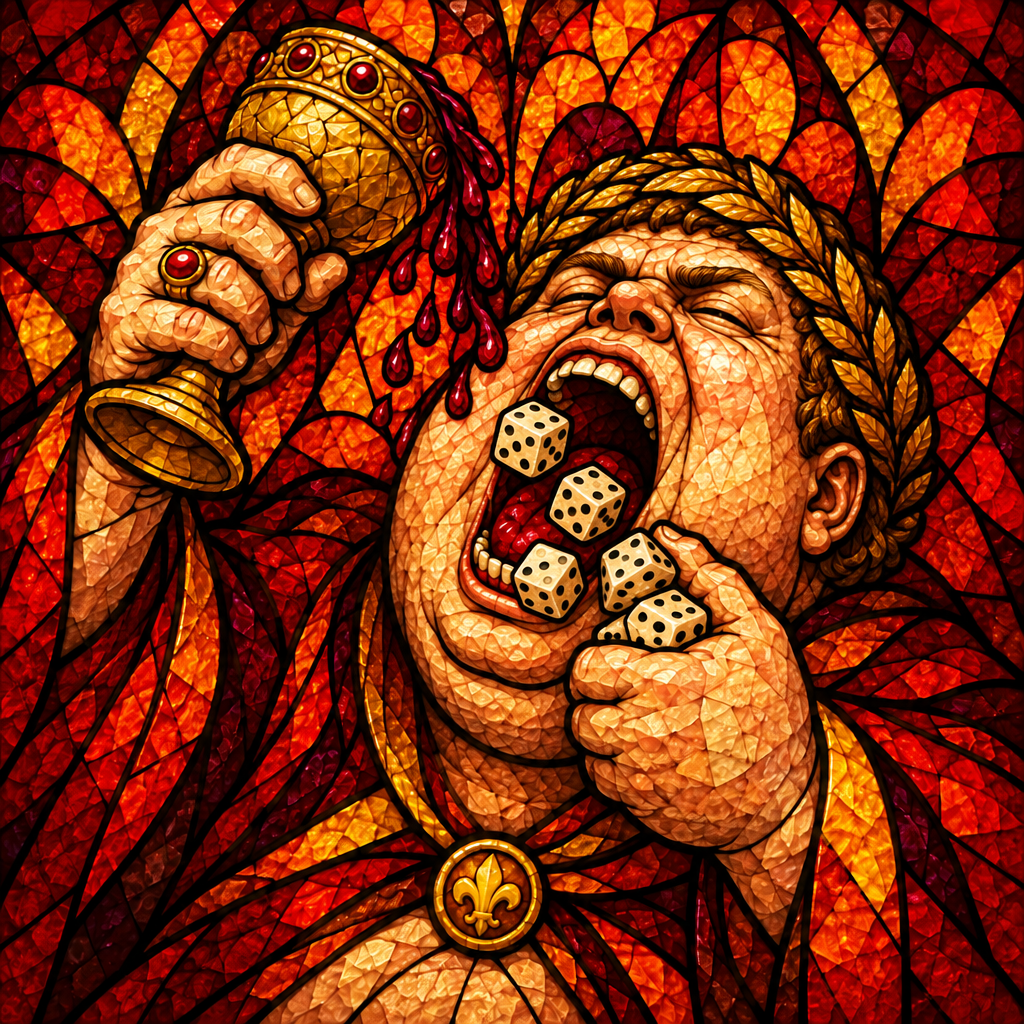
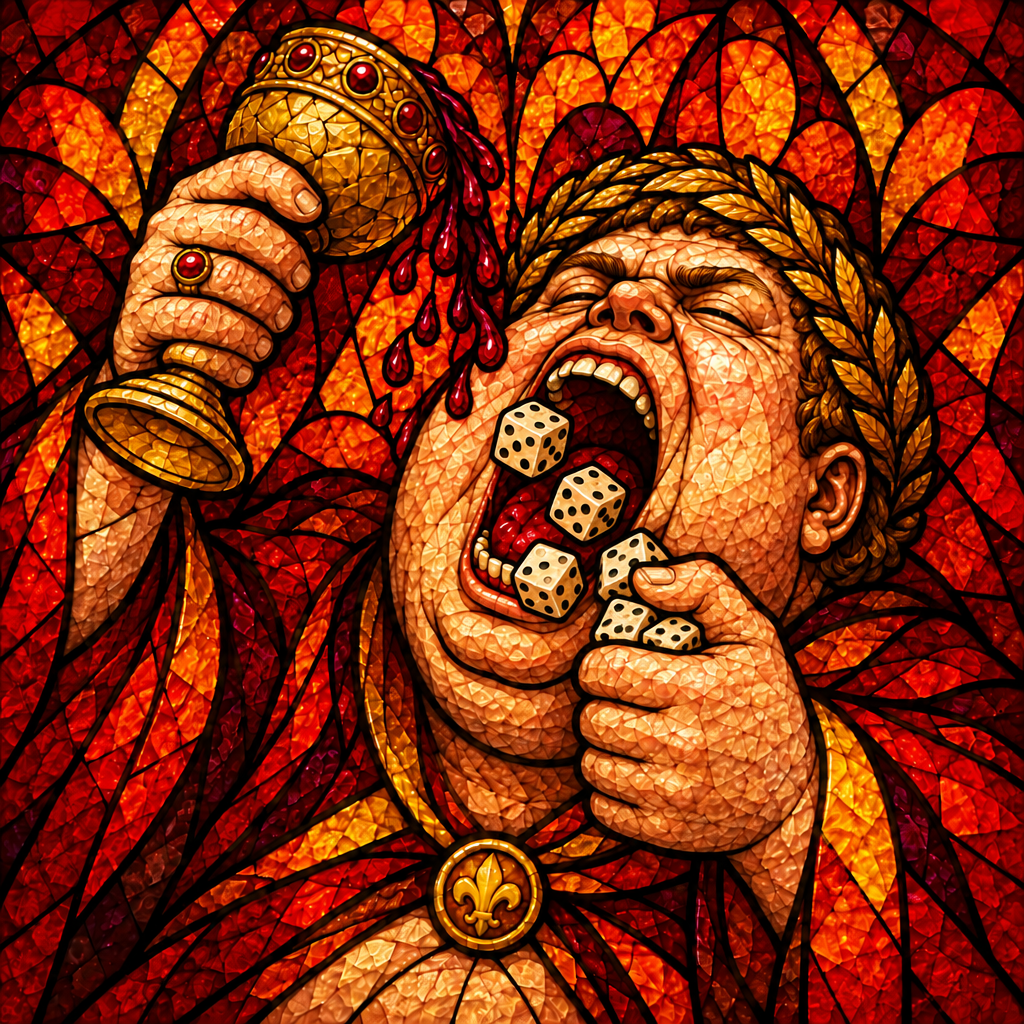
Gluttony portrait: five digits on each hand
Hands edit of the portrait (16 credits): thumb and four fingers on the goblet hand and
on the fist of dice. Handoff notes the shader cause and the lancet hand check.

diff --git a/Docs/Handoff.md b/Docs/Handoff.md
@@ -289,3 +289,5 @@ Plan first, small steps, short replies, one recommendation. Commit locally, neve
 - `_show_offer_now` (ui/main.gd): the board dims (`Tuning.OFFER_DIM`), the Sin's 4:5 portrait spans `OFFER_PORTRAIT_W` (90%) of the width from the top with a flare and a thin border in the Sin's colour, then its name, the offer, one context line (`tempt_context` / `tempt_context_lead`, built in `ui/human.gd`) and the first-time tip. The parchment and the prompt line hide until `clear_prompt`. Seals stay in `_buttons` with z 5 over the overlay (z 4). The portrait shrinks only if the words would reach the seals.
 - Gluttony portrait regenerated full-bleed and cropped to 4:5 at bake (`PORTRAIT_CX` in `tools/bake_art.gd`). Ben's rule: check hands, eyes and teeth on every generated portrait before showing, regenerate failures. Three tries, 64 credits: an edit of the arch (24) failed hands and eyes; a fresh one from the arch as reference (24) had good hands but one eye; an edit fixing the eyes (16) passed. 1,901 credits left.
 - Approved after Ben passes the portrait: Gluttony's four-layer animation, up to 130 credits. The other six portraits wait for his OK.
+- Shader colour fix (e54ab69): `COLOR` in a Godot 4 canvas fragment is already texture × modulate; the flare shader multiplied by the texture again, squaring every pixel (reds pushed, contrast crushed). `tests/glass_check.gd` (windowed) now guards it. candle, gold_leaf and tint shaders have the same pattern, not yet fixed.
+- Gluttony portrait hands: the eyes-fixed version still had a thumb and three fingers on each hand; a hands edit (16 credits, 1,885 left) has a thumb and four fingers on each. Lancet hands checked: Lust's dice hand shows a thumb and three fingers; others not confidently countable at lancet size.
